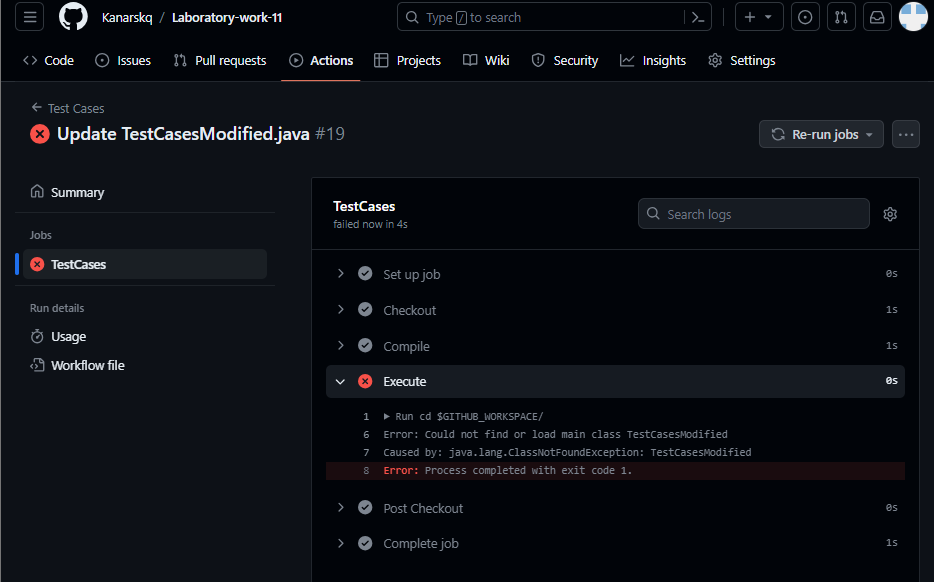
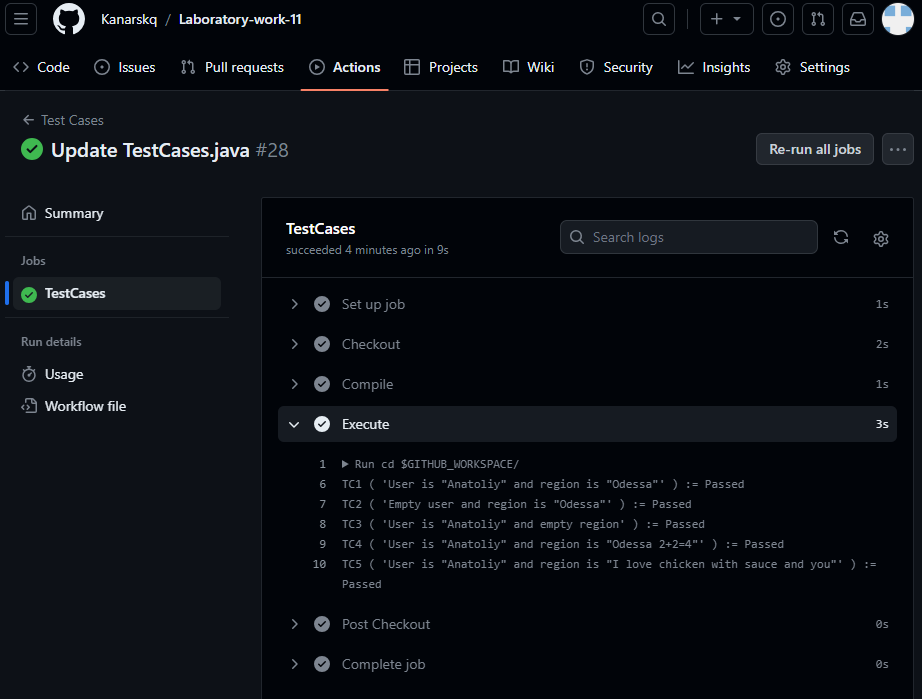
Fixes to Laboratory_work 11

diff --git a/3-SoftwareConstruction/3.3-ContinuousIntegration/TestCasesModified.java b/3-SoftwareConstruction/3.3-ContinuousIntegration/TestCasesModified.java
@@ -4,33 +4,34 @@ import oracle.jdbc.driver.*;
 class TestCases {
     public static void main(final String[] args) {
         int testCaseResult = 0; // 0 = Passed -1 = Failed
-try {
+        try { 
             // load Oracle JDBC-driver
             DriverManager.registerDriver(new oracle.jdbc.driver.OracleDriver());
             
             // open connect to DB
             Connection con = DriverManager.getConnection(
-                    "jdbc:oracle:thin:@91.219.60.189:1521/XEPDB1",
+                    "jdbc:oracle:thin:@185.235.218.67:1521/XEPDB1",
                     args[0], // get login as 1st command line parameter
                     args[1]); // get password as 2nd command line parameter 
 
             // create template string with PL/SQL-function "GetTemperature"
-            CallableStatement cstmt1 = con.prepareCall("{? = call GetTemperature(?,?)}");
+            CallableStatement cstmt1 = con.prepareCall("{? = call getTemperature(?,?)}");
             cstmt1.registerOutParameter(1, Types.NUMERIC);
 
             // Test Case 1
             System.out.print("TC1 ( 'User is \"Anatoliy\" and region is \"Odessa\"' ) := ");
-              cstmt1.setString(2, "Anatoliy");
+            cstmt1.setString(2, "Anatoliy");
             cstmt1.setString(3, "Odessa");
             cstmt1.executeUpdate();
-p  ld
+
             // analyze TestCase-result
-            if (cstmt1.getInt(1) == 1) {
+            if (cstmt1.getInt(1) == -1) {
                 System.out.println("Passed");
-            } else {System.out.println("Failed");
-                 testCaseResult = -1;
+            } else {
+                System.out.println("Failed");
+                testCaseResult = -1;
             }
-klm  sa
+
             // Test Case 2
             System.out.print("TC2 ( 'Empty user and region is \"Odessa\"' ) := ");
             cstmt1.setString(2, null);
@@ -38,7 +39,7 @@ klm  sa
             cstmt1.executeUpdate();
 
             // analyze TestCase-result
-            if (cstmt1.getInt(1) == -1) {
+            if (cstmt1.getInt(1) == 1) {
                 System.out.println("Passed");
             } else {
                 System.out.println("Failed");
@@ -52,7 +53,7 @@ klm  sa
             cstmt1.executeUpdate();
 
             // analyze TestCase-result
-            if (cstmt1.getInt(1) == -1) {
+            if (cstmt1.getInt(1) == 1) {
                 System.out.println("Passed");
             } else {
                 System.out.println("Failed");
@@ -66,7 +67,7 @@ klm  sa
             cstmt1.executeUpdate();
 
             // analyze TestCase-result
-            if (cstmt1.getInt(1) == -1) {
+            if (cstmt1.getInt(1) == 1) {
                 System.out.println("Passed");
             } else {
                 System.out.println("Failed");
@@ -80,7 +81,7 @@ klm  sa
             cstmt1.executeUpdate();
 
             // analyze TestCase-result
-            if (cstmt1.getInt(1) == -1) {
+            if (cstmt1.getInt(1) == 1) {
                 System.out.println("Passed");
             } else {
                 System.out.println("Failed");

diff --git a/3-SoftwareConstruction/3.3-ContinuousIntegration/TestCases.java b/3-SoftwareConstruction/3.3-ContinuousIntegration/TestCases.java
@@ -4,18 +4,18 @@ import oracle.jdbc.driver.*;
 class TestCases {
     public static void main(final String[] args) {
         int testCaseResult = 0; // 0 = Passed -1 = Failed
-        try {
+        try { 
             // load Oracle JDBC-driver
             DriverManager.registerDriver(new oracle.jdbc.driver.OracleDriver());
             
             // open connect to DB
             Connection con = DriverManager.getConnection(
-                    "jdbc:oracle:thin:@91.219.60.189:1521/XEPDB1",
+                    "jdbc:oracle:thin:@185.235.218.67:1521/XEPDB1",
                     args[0], // get login as 1st command line parameter
                     args[1]); // get password as 2nd command line parameter 
 
             // create template string with PL/SQL-function "GetTemperature"
-            CallableStatement cstmt1 = con.prepareCall("{? = call GetTemperature(?,?)}");
+            CallableStatement cstmt1 = con.prepareCall("{? = call getTemperature(?,?)}");
             cstmt1.registerOutParameter(1, Types.NUMERIC);
 
             // Test Case 1
@@ -32,6 +32,8 @@ class TestCases {
                 testCaseResult = -1;
             }
 
+	    cstmt1.clearParameters();
+
             // Test Case 2
             System.out.print("TC2 ( 'Empty user and region is \"Odessa\"' ) := ");
             cstmt1.setString(2, null);
@@ -45,7 +47,9 @@ class TestCases {
                 System.out.println("Failed");
                 testCaseResult = -1;
             }
-
+		
+	    cstmt1.clearParameters();
+		
 	    // Test Case 3
             System.out.print("TC3 ( 'User is \"Anatoliy\" and empty region' ) := ");
             cstmt1.setString(2, "Anatoliy");
@@ -59,6 +63,8 @@ class TestCases {
                 System.out.println("Failed");
                 testCaseResult = -1;
             }
+
+	    cstmt1.clearParameters();
 
 	    // Test Case 4
             System.out.print("TC4 ( 'User is \"Anatoliy\" and region is \"Odessa 2+2=4\"' ) := ");
@@ -74,6 +80,8 @@ class TestCases {
                 testCaseResult = -1;
             }
 
+	    cstmt1.clearParameters();
+		
 	    // Test Case 5
             System.out.print("TC5 ( 'User is \"Anatoliy\" and region is \"I love chicken with sauce and you\"' ) := ");
             cstmt1.setString(2, "Anatoliy");
